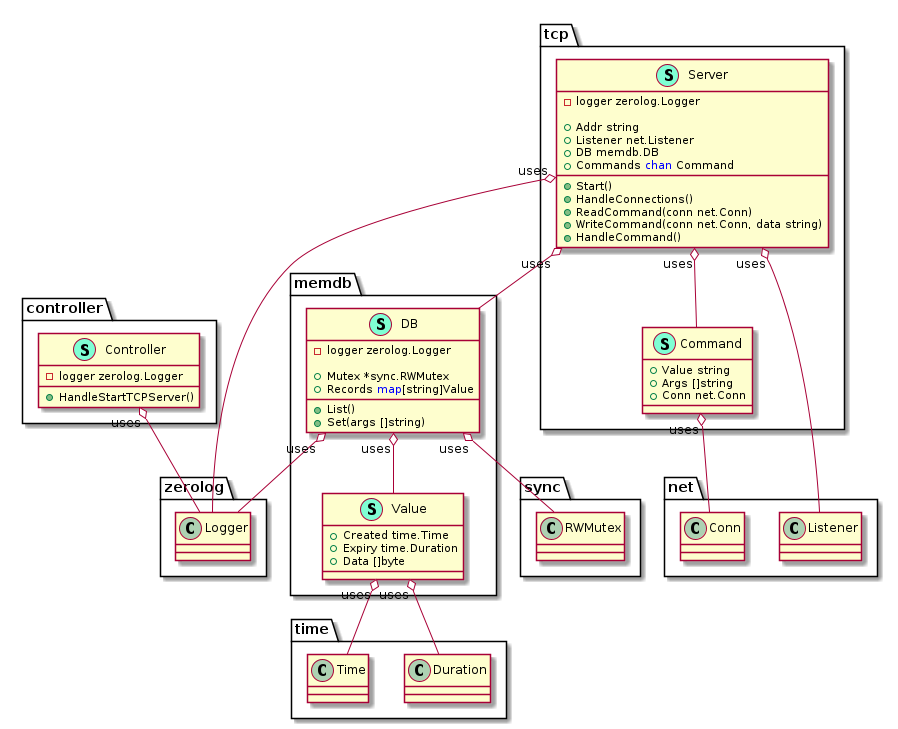
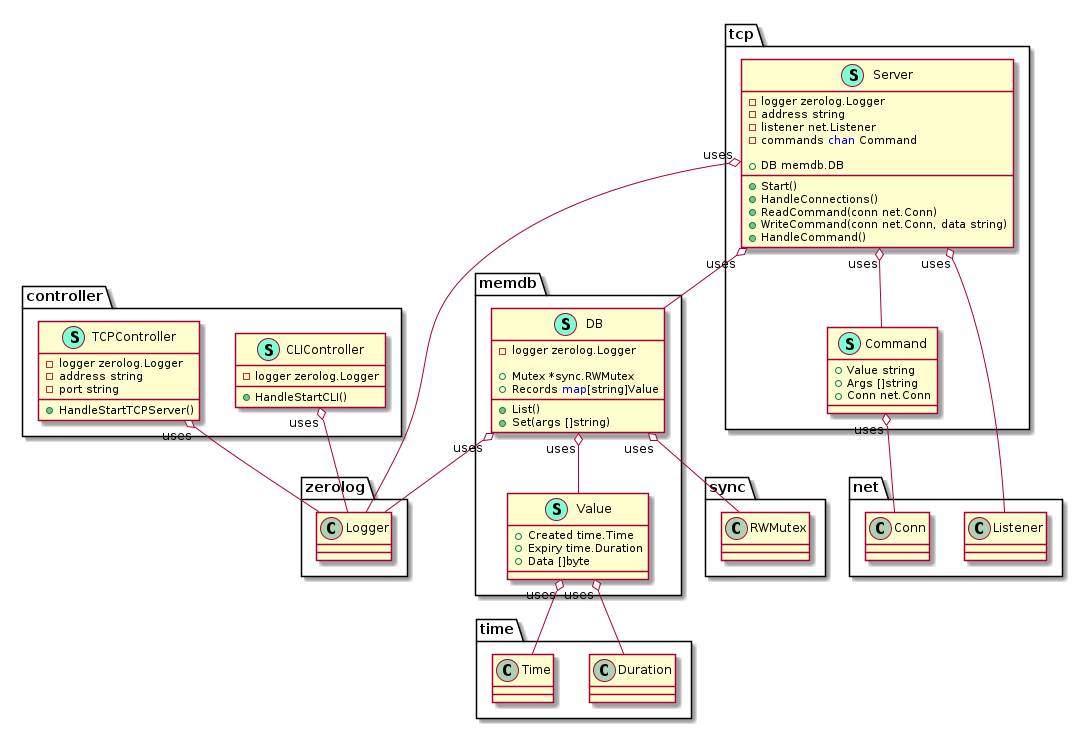
added cmd/cli for interacting with cmd/server

Changed region(s): [[0.0, 0.0302, 0.9978, 0.9959], [0.4989, 0.2716, 0.5301, 0.3018], [0.4677, 0.3018, 0.4989, 0.332]]

diff --git a/internal/tcp/server.go b/internal/tcp/server.go
@@ -19,35 +19,35 @@ type Command struct {
 
 type Server struct {
 	logger   zerolog.Logger
-	Addr     string
-	Listener net.Listener
+	address  string
+	listener net.Listener
 	DB       memdb.DB
-	Commands chan Command
+	commands chan Command
 }
 
-func NewServer(addr string, db memdb.DB, logger zerolog.Logger) Server {
+func NewServer(address string, db memdb.DB, logger zerolog.Logger) Server {
 	return Server{
 		logger:   logger,
-		Addr:     addr,
+		address:  address,
 		DB:       db,
-		Commands: make(chan Command),
+		commands: make(chan Command),
 	}
 }
 
 func (s *Server) Start() {
-	listener, err := net.Listen("tcp", s.Addr)
+	listener, err := net.Listen("tcp", s.address)
 	if err != nil {
 		panic(err)
 	}
 	defer listener.Close()
-	s.Listener = listener
-	s.logger.Info().Msg("TCP server started")
+	s.listener = listener
+	s.logger.Info().Msg(fmt.Sprintf("TCP server started on %s", s.address))
 	s.HandleConnections()
 }
 
 func (s *Server) HandleConnections() {
 	for {
-		conn, err := s.Listener.Accept()
+		conn, err := s.listener.Accept()
 		if err != nil {
 			s.logger.Fatal().Msg(fmt.Sprintf("tcp server unable to accept connection: %v", err))
 			continue
@@ -62,26 +62,26 @@ func (s *Server) ReadCommand(conn net.Conn) {
 	for {
 		input, err := bufio.NewReader(conn).ReadString('\n')
 		if err != nil {
-			s.logger.Info().Msg(fmt.Sprintf("unable to read from connection... waiting: %v", err))
+			s.logger.Info().Msg(fmt.Sprintf("no message received on connection... waiting: %v", err))
 			time.Sleep(10 * time.Second)
 		}
 		cmd := strings.Trim(input, "\r\n")
 		args := strings.Split(cmd, " ")
 
-		s.Commands <- Command{
+		s.commands <- Command{
 			Value: args[0], Args: args[1:], Conn: conn,
 		}
 	}
 }
 
 func (s *Server) WriteCommand(conn net.Conn, data string) {
-	if _, err := conn.Write([]byte(data)); err != nil {
+	if _, err := conn.Write([]byte(data + "\n")); err != nil {
 		s.logger.Error().Msg(fmt.Sprintf("TCP server failed to write : %v", err))
 	}
 }
 
 func (s *Server) HandleCommand() {
-	for cmd := range s.Commands {
+	for cmd := range s.commands {
 		switch cmd.Value {
 		case LIST:
 			s.logger.Info().Msg("TCP server received LIST command")
@@ -94,6 +94,9 @@ func (s *Server) HandleCommand() {
 			} else {
 				s.DB.Set(cmd.Args)
 			}
+		default:
+			s.WriteCommand(cmd.Conn, "Error: command does not exist")
 		}
+
 	}
 }

diff --git a/internal/adapter/controller/cli_controller.go b/internal/adapter/controller/cli_controller.go
@@ -1,0 +1,65 @@
+package controller
+
+import (
+	"bufio"
+	"fmt"
+	"net"
+	"os"
+	"strings"
+
+	"github.com/rs/zerolog"
+)
+
+type CLIController struct {
+	logger zerolog.Logger
+}
+
+func NewCLIController(logger zerolog.Logger) CLIController {
+	return CLIController{
+		logger: logger,
+	}
+}
+
+func (c *CLIController) HandleStartCLI() {
+	if len(os.Args) != 2 {
+		fmt.Println("Usage: cli <address>")
+		os.Exit(1)
+	}
+	address := os.Args[1]
+
+	conn, err := net.Dial("tcp", address)
+	if err != nil {
+		fmt.Printf("Failed to connect to server: %v\n", err)
+		os.Exit(1)
+	}
+	defer conn.Close()
+
+	reader := bufio.NewReader(os.Stdin)
+	fmt.Println("Connected to server. Type commands:")
+
+	for {
+		fmt.Print("> ")
+		input, _ := reader.ReadString('\n')
+		input = strings.TrimSpace(input)
+		if input == "" {
+			continue
+		}
+		if input == "exit" {
+			break
+		}
+
+		_, err := conn.Write([]byte(input + "\n"))
+		if err != nil {
+			fmt.Printf("Failed to send command: %v\n", err)
+			break
+		}
+
+		response, err := bufio.NewReader(conn).ReadString('\n')
+
+		if err != nil {
+			fmt.Printf("Failed to read response: %v\n", err)
+			break
+		}
+		fmt.Println(strings.TrimSpace(response))
+	}
+}

diff --git a/internal/adapter/controller/tcp_controller.go b/internal/adapter/controller/tcp_controller.go
@@ -1,0 +1,29 @@
+package controller
+
+import (
+	"fmt"
+
+	"github.com/gijsdb/go-mem-db/internal/memdb"
+	"github.com/gijsdb/go-mem-db/internal/tcp"
+	"github.com/rs/zerolog"
+)
+
+type TCPController struct {
+	logger  zerolog.Logger
+	address string
+	port    string
+}
+
+func NewTCPController(logger zerolog.Logger, address string, port string) TCPController {
+	return TCPController{
+		logger:  logger,
+		address: address,
+		port:    port,
+	}
+}
+
+func (c *TCPController) HandleStartTCPServer() {
+	db := memdb.NewDB(c.logger)
+	s := tcp.NewServer(fmt.Sprintf("%s:%s", c.address, c.port), db, c.logger)
+	s.Start()
+}

diff --git a/cmd/server/main.go b/cmd/server/main.go
@@ -1,0 +1,20 @@
+package main
+
+import (
+	"flag"
+
+	"github.com/gijsdb/go-mem-db/internal/adapter/controller"
+	"github.com/gijsdb/go-mem-db/pkg/logging"
+)
+
+func main() {
+	logger := logging.CreateOrGetMultiOutputLogger()
+
+	TCP_ADDRESS := flag.String("tcp-address", "localhost", "TCP server address, defaults to localhost")
+	TCP_PORT := flag.String("tcp-port", "4242", "TCP server port, defaults to 4242")
+
+	flag.Parse()
+
+	controller := controller.NewTCPController(logger, *TCP_ADDRESS, *TCP_PORT)
+	controller.HandleStartTCPServer()
+}

diff --git a/cmd/cli/main.go b/cmd/cli/main.go
@@ -8,6 +8,8 @@ import (
 func main() {
 	logger := logging.CreateOrGetMultiOutputLogger()
 
-	controller := controller.NewController(logger)
-	controller.HandleStartTCPServer()
+	// TCP_ADDRESS := flag.String("tcp-address", "localhost:4242", "TCP server address, defaults to localhost:4242")
+
+	controller := controller.NewCLIController(logger)
+	controller.HandleStartCLI()
 }

diff --git a/pkg/lib/lib.go b/pkg/lib/lib.go
@@ -1,0 +1,3 @@
+package lib
+
+// library code

diff --git a/README.md b/README.md
@@ -1,2 +1,1 @@
 # go-mem-db
-nc -v localhost 4242
